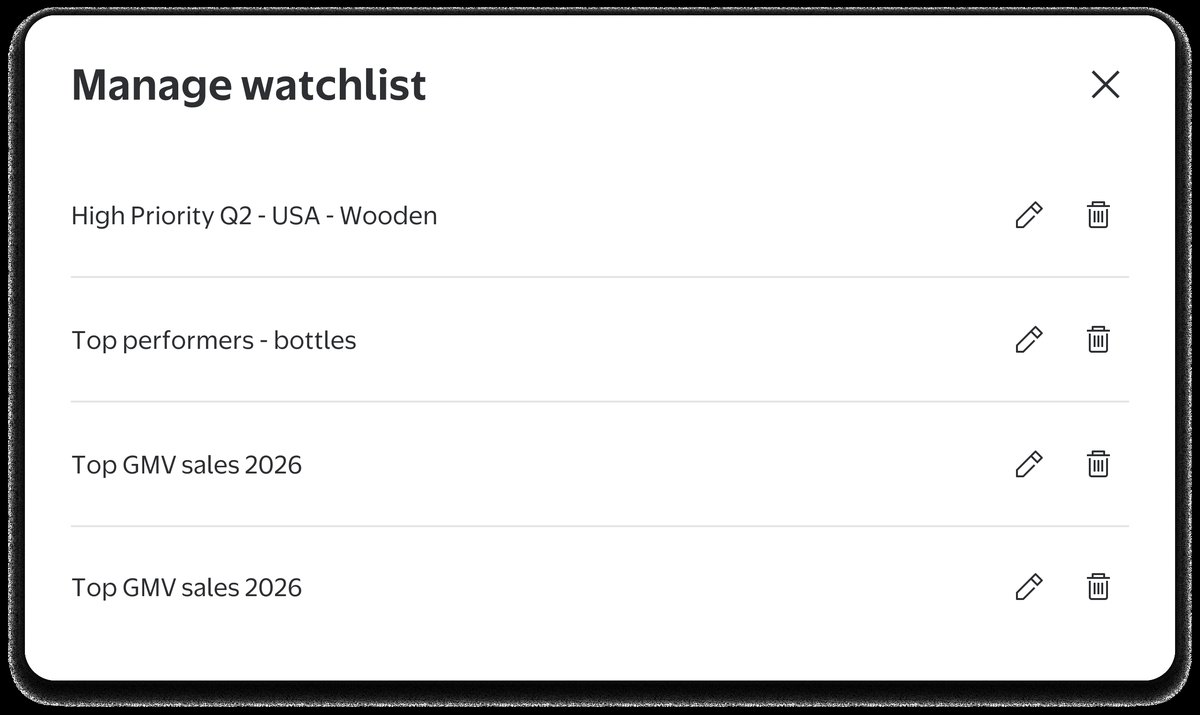
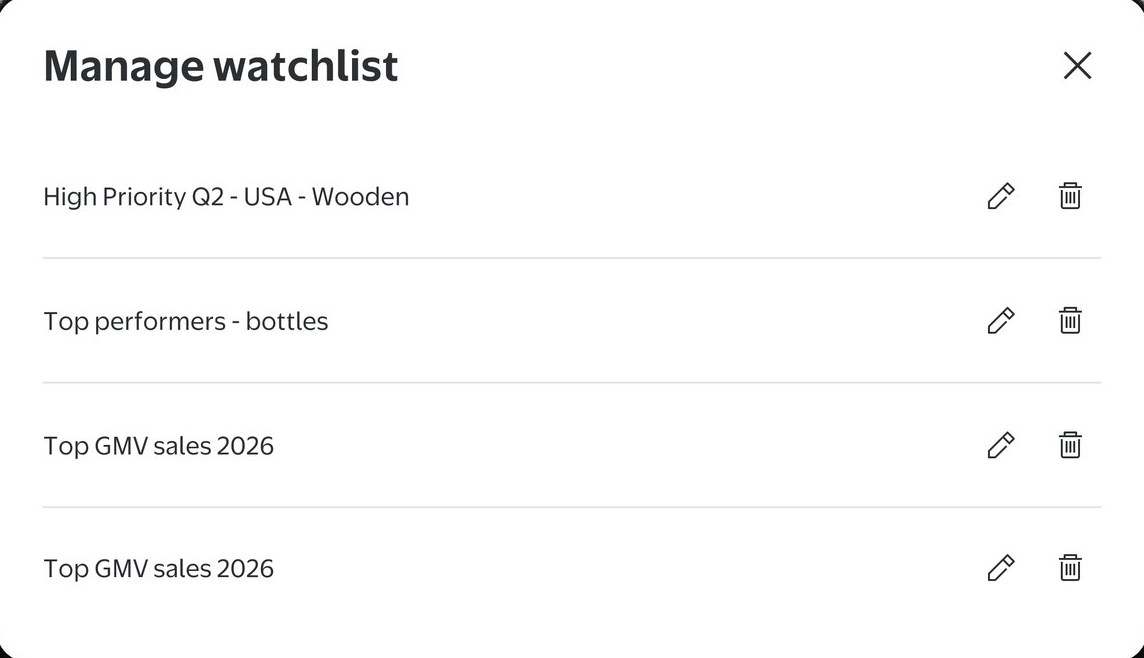
Update index.html

diff --git a/index.html b/index.html
@@ -1659,6 +1659,7 @@
     margin:0 10px;vertical-align:middle;}
   /* footer layout (calmer, editorial): identity gets the wide first column, links sit in tidy columns,
      Up sits top-right with the column labels, the © bar carries the hairline beneath it, then the name. */
+  .case-exp-inset-frame{max-width:400px;margin-top:22px;}   /* a small companion screen in the same black frame as the others */
   .case-exp-inset{display:block;width:100%;max-width:380px;height:auto;margin-top:22px;border:1px solid var(--line);border-radius:14px;box-shadow:0 10px 30px -18px rgba(23,23,27,.35);}   /* small companion screen under a detail's copy */
   .site-foot--v2{margin-top:0;border-top:0;padding-top:clamp(8px,1.5vw,24px);}   /* the UX-laws ruler above is the divider */
   .foot2-tagline{margin:0 0 clamp(32px,3.5vw,48px);}
@@ -5574,7 +5575,7 @@
           <div class="case-tag">02 · Discovery</div>
           <h3 class="case-h3" style="margin-top:10px">Open and manage watchlists</h3>
           <p class="case-p">The Watchlist menu in the toolbar opens any saved list in one step, and Manage watchlist lets teams rename or remove lists as priorities change.</p>
-          <img class="case-exp-inset" src="assets/images/image-132-5f4bcfe85fdb.jpg" alt="Manage watchlist dialog — rename or delete each saved list" loading="lazy">
+          <div class="shotbox-desktop case-exp-inset-frame"><div class="shotbox-browserbar"><i></i><i></i><i></i></div><div class="shotbox-crop"><img src="assets/images/image-132-5f4bcfe85fdb.jpg" alt="Manage watchlist dialog — rename or delete each saved list" loading="lazy"></div></div>
         </div>
         <div class="case-shotbox case-shotbox--desktop"><div class="shotbox-desktop shotbox-desktop--medium"><div class="shotbox-browserbar"><i></i><i></i><i></i></div><div class="shotbox-crop"><img src="assets/images/image-130-3c778497b9b7.jpg" alt="Supplier management — Watchlist menu open with saved lists, Manage watchlist and New watchlist"></div></div></div>
       </div>
